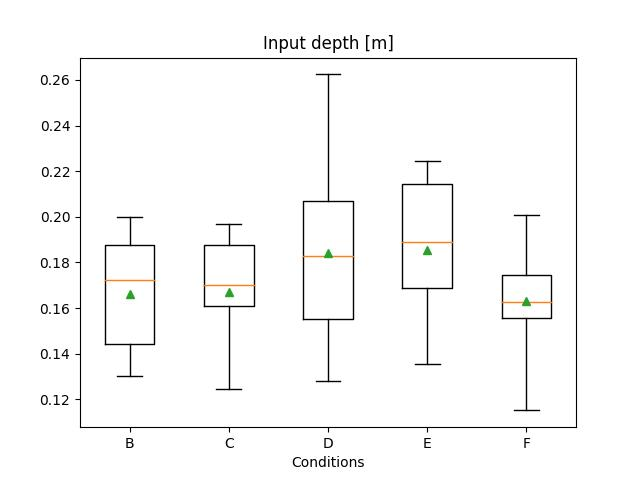
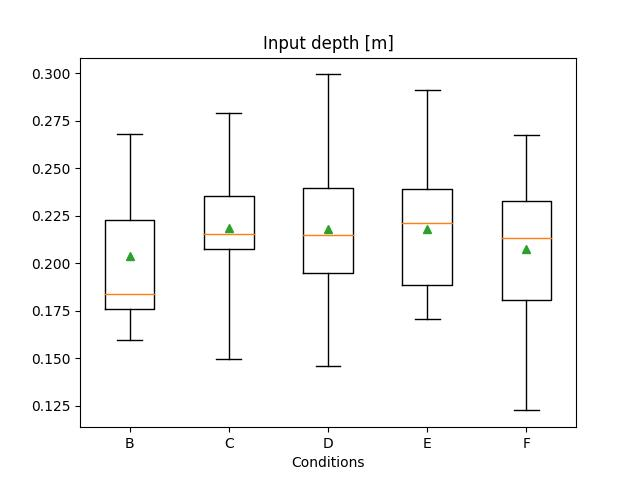
changed input depth calculation to std

diff --git a/calculators.py b/calculators.py
@@ -71,8 +71,8 @@ def grabs(data, p, c, t):
 
 def input_depth(data, p, c, t):
     input_z = functions.crop_data(data[p][c][t]['Hand']['posZ'], data[p][c][t]['Experiment'])
-    pdf_z, std_z = functions.pdf(input_z)
+    mean_z, std_z = functions.pdf(input_z)
 
-    depth = max(input_z)-min(input_z)
+    depth = std_z*6
 
     return depth

diff --git a/functions.py b/functions.py
@@ -55,4 +55,4 @@ def pdf(x):
     mean = np.mean(x)
     std = np.std(x)
     y_out = 1/(std * np.sqrt(2 * np.pi)) * np.exp( - (x - mean)**2 / (2 * std**2))
-    return y_out, std
+    return mean, std
